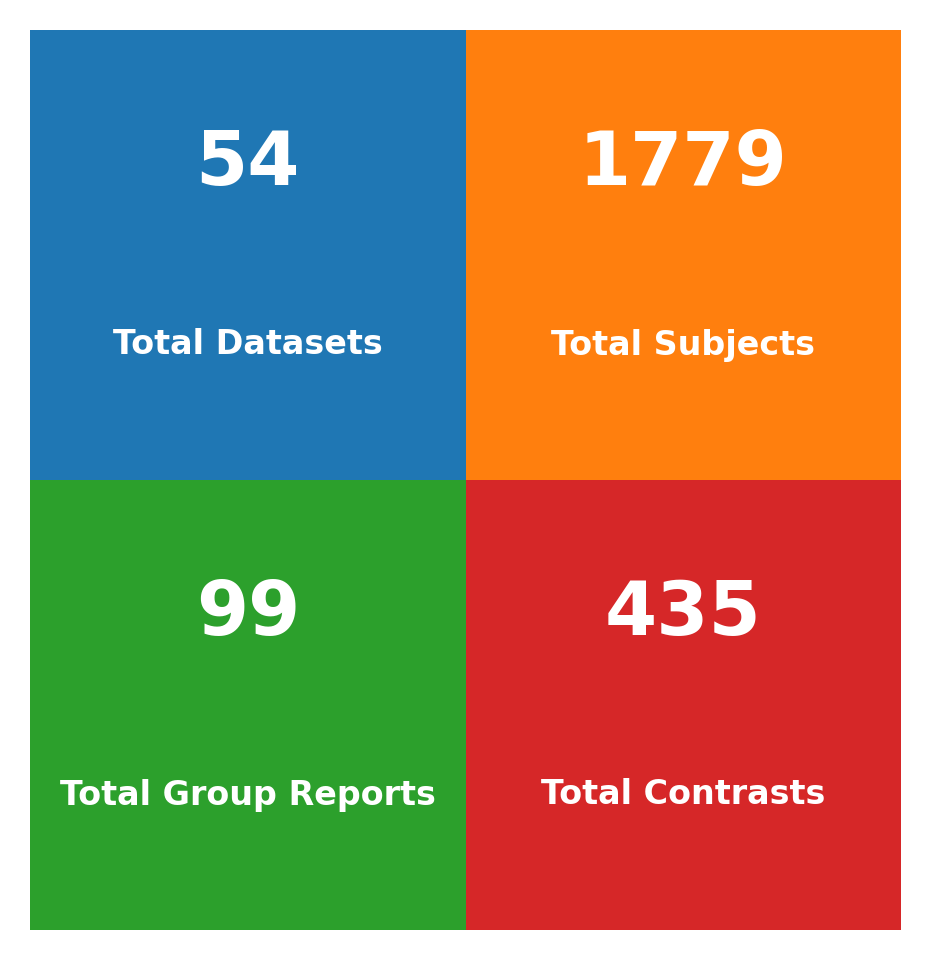
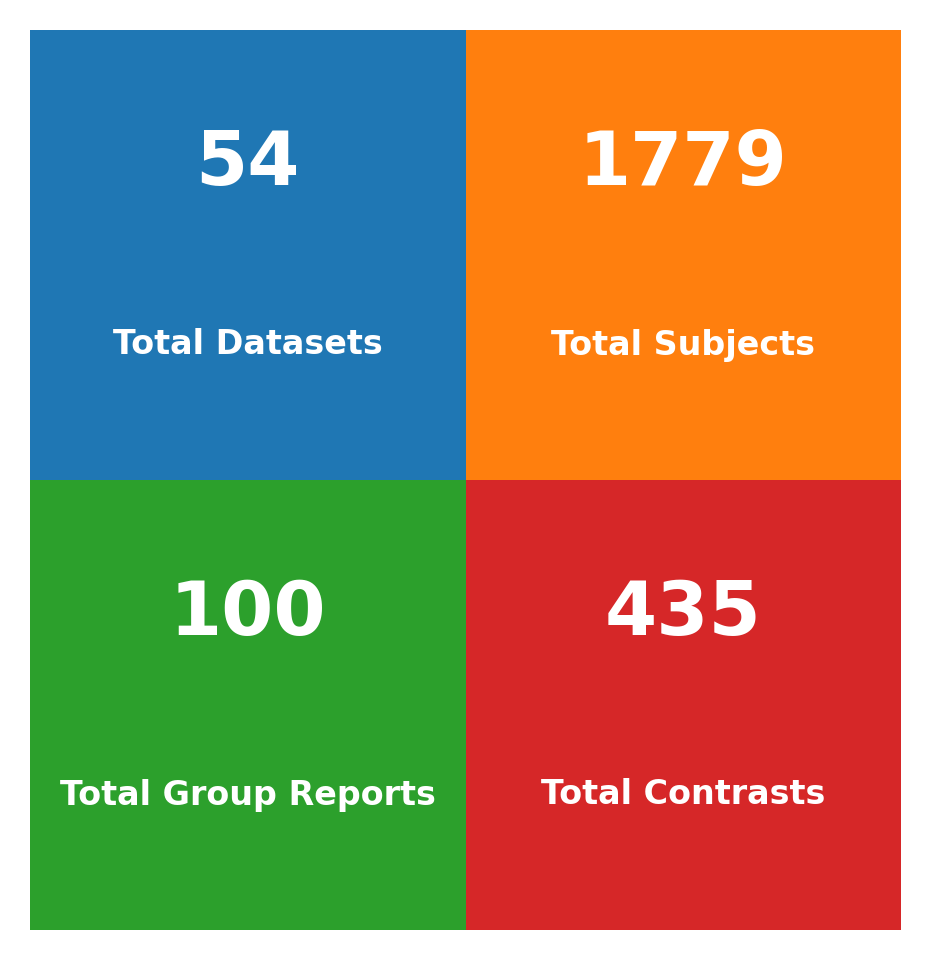
paper link fixes for ds003858 mid

Changed region(s): [[0.1869, 0.5938, 0.3426, 0.6875]]

diff --git a/README.md b/README.md
@@ -7,16 +7,16 @@
 
 **Contact**: [demidenko.michael@gmail.com](mailto:demidenko.michael@gmail.com)
 
-*This repository is in active development. `Last updated: 2025-08-27`*
+*This repository is in active development. `Last updated: 2025-08-29`*
 
 
 ![OpenNeuro Fitlins Summary](docs/openneurofitlins_summary_dashboard.png)
 
 N OpenNeuro Studies: 54
 
-N OpenNeuro Task fMRI Group Summaries: 99
+N OpenNeuro Task fMRI Group Summaries: 100
 
-Completed fMRI Task Names: 1dNF, 1Norm, 2dNF, 2Swallow, 3HandA, 4HandB, 5Eyes, 6DeepBreathing, abstractconcretejudgment, antisaccadetaskwithfixedorder, arithm, auditoryfeedback, balloonanalogrisktask, balloonanalogrisktask, ChangeDetection, cmp, ColorDots, compL1, compLn, conditionalstopsignal, covertverbgeneration, deterministicclassification, discounting, doors, dts, ec, em, emotionalfaces, emotionalregulation, Emotionregulation, encoding, epr, faceexplocalizer, faceidentityoddball, facerecognition, familiarity, feedback, figure2backwith1backlures, fingerfootlips, flanker, flavor, FoodChoice, FoodStimHiLo, gas, GDMotor, identify1, identify2, illusion, learning, letter0backtask, letter1backtask, letter2backtask, linebisection, Memory, MGT, mid, MIDmb4, MIDmb8, MIDsingle, mixedeventrelatedprobe, mixedgamblestask, modulate1, music, nofeedback, nonmusic, objectviewing, overtverbgeneration, overtwordrepetition, ParallelAdaptation, passiveimageviewing, pc, prelearning, probabilisticclassification, prodL1, prodLn, regulate, retrieval, reversalweatherprediction, roletrait, sae, sar, socialcomparison, socialdoors, stopsignal, stopsignal, task, theoryofmindwithmanualresponse, TrainedHandTrainedSequence, TrainedHandUntrainedSequence, training, UntrainedHandTrainedSequence, UntrainedHandUntrainedSequence, verbs, viewFigure, viewing, viewRandom, visualfeedback, weatherprediction, wm
+Completed fMRI Task Names: 1dNF, 1Norm, 2dNF, 2Swallow, 3HandA, 4HandB, 5Eyes, 6DeepBreathing, abstractconcretejudgment, antisaccadetaskwithfixedorder, arithm, auditoryfeedback, balloonanalogrisktask, balloonanalogrisktask, ChangeDetection, cmp, ColorDots, compL1, compLn, conditionalstopsignal, covertverbgeneration, deterministicclassification, discounting, doors, dts, ec, em, emotionalfaces, emotionalregulation, Emotionregulation, encoding, epr, faceexplocalizer, faceidentityoddball, facerecognition, familiarity, feedback, figure2backwith1backlures, fingerfootlips, flanker, flavor, FoodChoice, FoodStimHiLo, gas, GDMotor, identify1, identify2, illusion, learning, letter0backtask, letter1backtask, letter2backtask, linebisection, Memory, MGT, mid, mid, MIDmb4, MIDmb8, MIDsingle, mixedeventrelatedprobe, mixedgamblestask, modulate1, music, nofeedback, nonmusic, objectviewing, overtverbgeneration, overtwordrepetition, ParallelAdaptation, passiveimageviewing, pc, prelearning, probabilisticclassification, prodL1, prodLn, regulate, retrieval, reversalweatherprediction, roletrait, sae, sar, socialcomparison, socialdoors, stopsignal, stopsignal, task, theoryofmindwithmanualresponse, TrainedHandTrainedSequence, TrainedHandUntrainedSequence, training, UntrainedHandTrainedSequence, UntrainedHandUntrainedSequence, verbs, viewFigure, viewing, viewRandom, visualfeedback, weatherprediction, wm
 
 ## Overview
 

diff --git a/statsmodel_specs/ds003858/group_MIDmb4/README.md b/statsmodel_specs/ds003858/group_MIDmb4/README.md
@@ -2,7 +2,7 @@
 
 The size of the Fitlins Derivatives for ds003858 MID is 2.2G with 1400 files.
 
-Dataset- and task-relevant citations may be found in the papers: [Paper 1](https://www.doi.org10.1016/j.neuroimage.2021.118617).
+Dataset- and task-relevant citations may be found in the papers: [Paper 1](https://www.doi.org/10.1016/j.neuroimage.2021.118617).
 
 ## 1. Statistical Analysis [Boilerplate]
 

diff --git a/statsmodel_specs/ds003858/group_MIDmb8/README.md b/statsmodel_specs/ds003858/group_MIDmb8/README.md
@@ -2,7 +2,7 @@
 
 The size of the Fitlins Derivatives for ds003858 MID is 2.4G with 1400 files.
 
-Dataset- and task-relevant citations may be found in the papers: [Paper 1](https://www.doi.org10.1016/j.neuroimage.2021.118617).
+Dataset- and task-relevant citations may be found in the papers: [Paper 1](https://www.doi.org/10.1016/j.neuroimage.2021.118617).
 
 ## 1. Statistical Analysis [Boilerplate]
 

diff --git a/statsmodel_specs/ds003858/group_MIDsingle/README.md b/statsmodel_specs/ds003858/group_MIDsingle/README.md
@@ -2,7 +2,7 @@
 
 The size of the Fitlins Derivatives for ds003858 MID is 2.3G with 1400 files.
 
-Dataset- and task-relevant citations may be found in the papers: [Paper 1](https://www.doi.org10.1016/j.neuroimage.2021.118617).
+Dataset- and task-relevant citations may be found in the papers: [Paper 1](https://www.doi.org/10.1016/j.neuroimage.2021.118617).
 
 ## 1. Statistical Analysis [Boilerplate]
 
